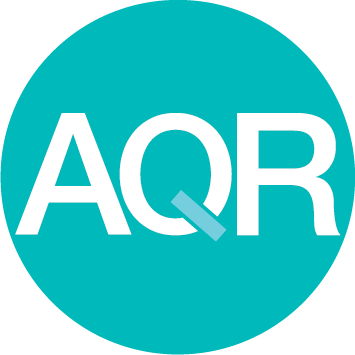
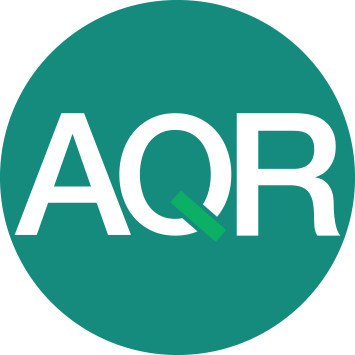
aqr 로고 추가, 변경

diff --git a/symbol/index.html b/symbol/index.html
@@ -463,6 +463,8 @@
                                             <img src=./images/aqr-logo-aqr4.png>
                                             <img src=./images/aqr_squre_2.png>
                                             <img src=./images/aqr_squre3.png>
+                                            <img src=./images/aqr_squre4.png>
+                                            <img src=./images/aqr_squre5.png>
                                         </div>
                                         </p>
 
